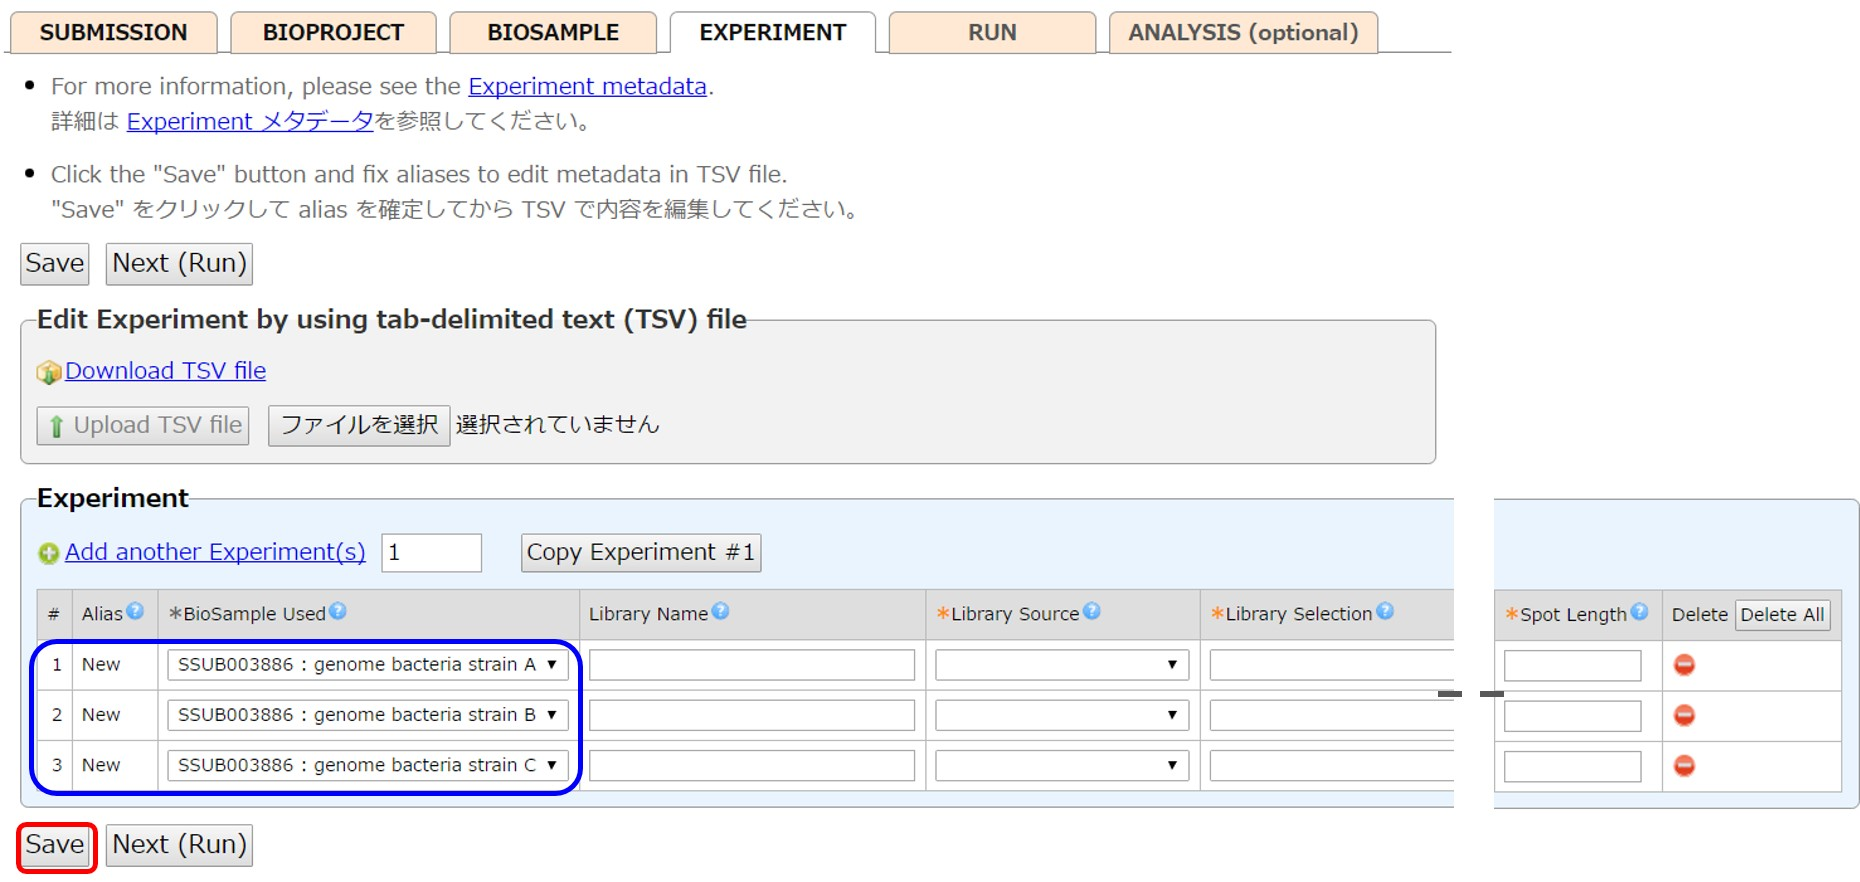
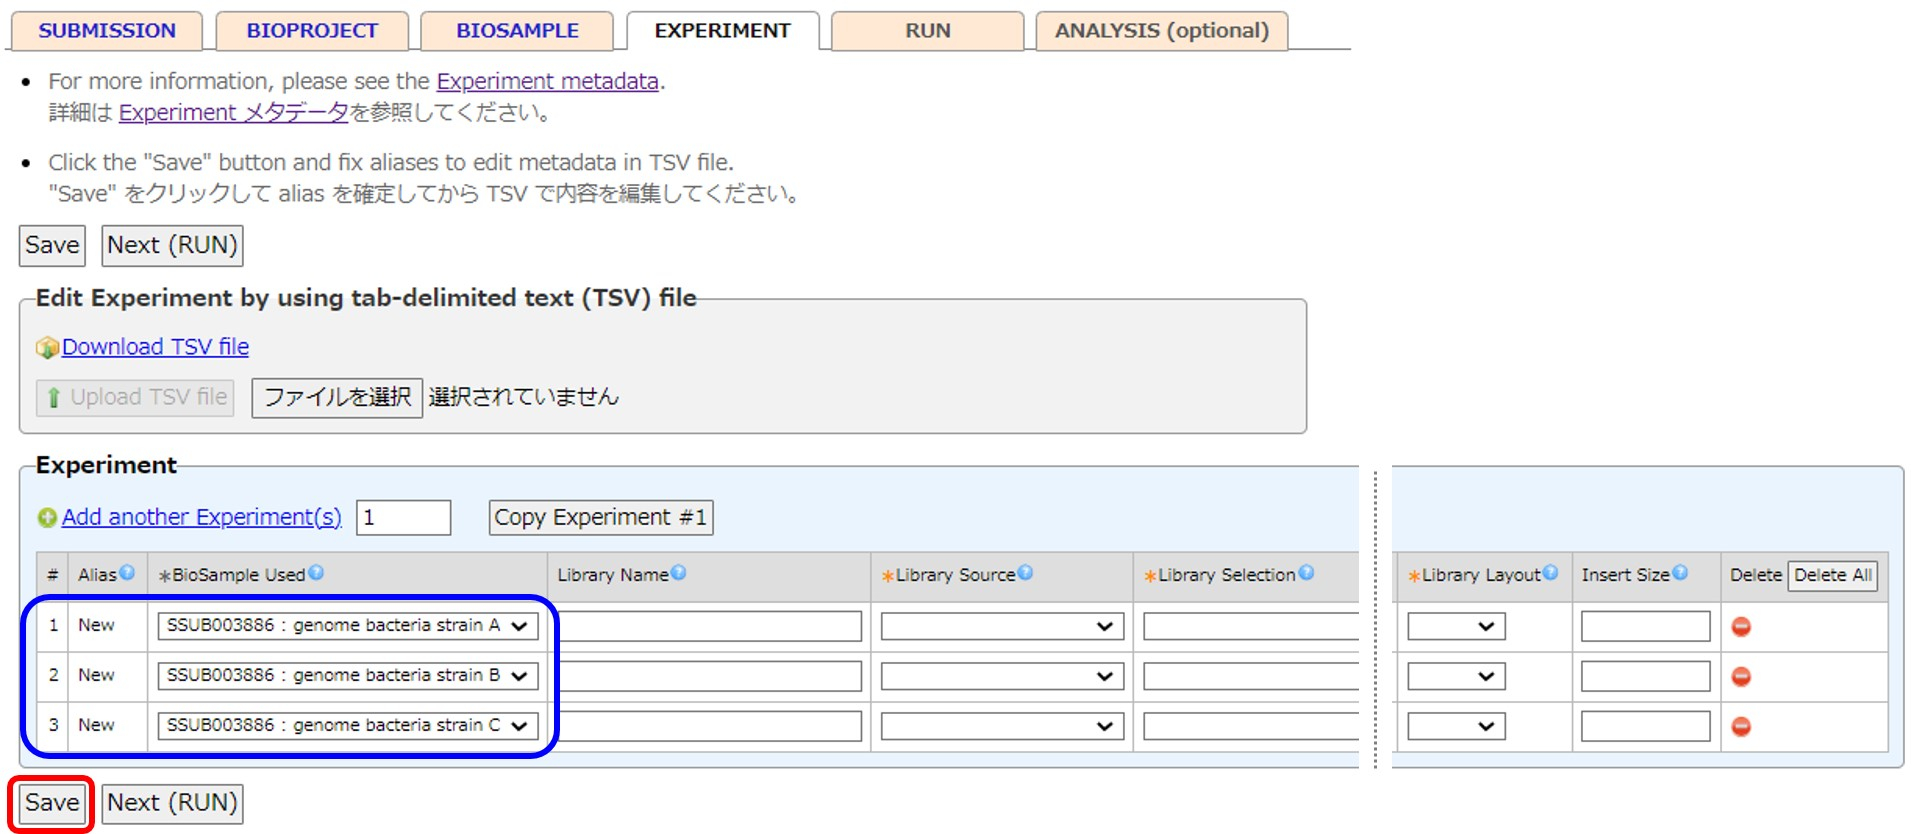
spot length 任意化に対応

diff --git a/_dra/submission.md b/_dra/submission.md
@@ -15,12 +15,9 @@ lang: ja
 
 ## 登録の流れ {#flow}
 
-登録方法の動画 [TogoTV](https://togotv.dbcls.jp/20190523.html) (22分12秒、2019年作成)。
-
 ### 1. 登録アカウントを取得 {#step-account}
 
-[D-way 登録アカウント](/account.html)を取得し、
-[公開鍵と center name をアカウントに登録](/account.html#enable-dra-submission-in-account)して DRA 登録ができるようにします。
+[D-way 登録アカウント](/account.html)を取得し、[公開鍵と center name をアカウントに登録](/account.html#enable-dra-submission-in-account)して DRA 登録ができるようにします。
 
 ### 2. DRA 新規登録の作成  {#step-new-submission}
 
@@ -159,8 +156,8 @@ BioProject の登録後、登録したプロジェクトが選択されます。
 
 アカウントで登録した BioSample から該当するものを選びます (DRA では数サンプルが一般的です)。
 チェックボックスを選択し、続いて Shift キーを押しながら次のボックスをクリックすると、サンプルが範囲選択されます。
-また、カラム上部のボックスにテキストを入力しフィルターされた全てのサンプルを [Select filtered BioSamples] で選択することができます。　　
-未登録の場合、[register sample(s)] から新たにサンプルを登録します。  
+また、カラム上部のボックスにテキストを入力しフィルターされた全てのサンプルを [Select filtered BioSamples] で選択することができます。
+未登録の場合、[register sample(s)] から新たにサンプルを登録します。    
 自身のアカウント以外で登録されたサンプルを参照したい場合は [DRA チームに連絡](/contact-ddbj.html)します。
 
 {% include image.html url="books/hdra-bs01.jpg" caption="BioSample の選択 or 新規登録" class="w500" %}
@@ -195,7 +192,8 @@ Experiment は [Add new Experiment(s)] で追加できます。
 
 エクセルなどの表計算ソフトでメタデータをまとめて作成します。
 
-"Title" は空の場合、自動的に "[Sequencing Instrument Model] [paired end] sequencing of [BioSample ID]" というタイトル（例 "Illumina HiSeq 2000 paired end sequencing of SAMD00025741"）が構築されます。独自の Title を付ける場合は "Title" 欄にタイトルを入力します。　
+"Title" は空の場合、自動的に "[Sequencing Instrument Model] [paired end] sequencing of [BioSample ID]" というタイトル（例 "Illumina HiSeq 2000 paired end sequencing of SAMD00025741"）が構築されます。
+内容を簡潔に表すタイトルを "Title" 欄に記載することを推奨します。   
 "BioSample Used" は番号発行済みのサンプルは SAMD アクセッション番号 (例 SAMD00000001) で、未発番のサンプルは "SSUB BioSample Submission ID" : "Sample name" (例 SSUB003746 : Genome bacteria strain A) で指定します。":" の両側の空白は無視されます。
 
 {% include image.html url="books/hdra-experiment03.jpg" caption="Experiment テンプレートファイル" class="w500" %}

diff --git a/_dra/metadata-e.md b/_dra/metadata-e.md
@@ -315,28 +315,19 @@ eCollection 2015. PMID:
 | AB 3730 Genetic Analyzer            |
 | AB 3730xL Genetic Analyzer          |
 
-[Spot Type](#Spot_Type)<a name="Spot_Type"></a><span class="red">*</span>  
-: Select a layout of reads in sequencing data files.
+[Library Layout](#Library_Layout)<a name="Library_Layout"></a><span class="red">*</span>  
+: Select a layout of reads in sequencing data files. 
+Directions of reads (Forward or Reverse) are automatically determined from the Instrument values. 
+In December 2022, the display name was changed from "Spot Type" to "Library Layout".
 
-| Spot Type   | Description                           |
+| Spot Type | Description |
 |---|
-| single      | Single read                           |
-| paired (FF) | Paired reads with same direction.     |
-| paired (FR) | Paired reads with opposite direction. |
+| single | Single read |
+| paired | Paired reads |
 
-[Nominal Length](#Nominal_Length)<a name="Nominal_Length"></a><span class="conditionally_required">*</span>  
-: Size of the insert for Paired reads.
-
-[Nominal Sdev](#Nominal_Sdev)<a name="Nominal_Sdev"></a>
-: Standard deviation of insert size.
-
-[Spot Length](#Spot_Length)<a name="Spot_Length"></a><span class="red">*</span>  
-: The read length in submitted sequencing files. For mate pairs, this
-number includes mate pairs, but does not include gap lengths.
-
-- When the spot length is constant, enter a constant value.
-- For 454 platforms producing reads with variable length, enter a constant flow count.
-- For fastq files with variable length, enter an average length.
+[Insert Size](#Insert_Size)<a name="Insert_Size"></a><span class="conditionally_required">*</span>  
+: Size of the insert for Paired reads. 
+In December 2022, the display name was changed from "Nominal Length" to "Insert Size".
 
 ## Run  {#Run} 
 
@@ -377,7 +368,6 @@ in tsv file, this field needs to be specified manually.
 | File Type        | Description                                                                                                            |
 |---|
 | fastq            | fastq file                                                                       |
-| sff              | 454 Standard Flowgram Format file                                                                                      |
 | hdf5             | PacBio hdf5 Format file                                                                                                |
 | bam              | Binary SAM format for use by loaders that combine alignment and sequencing data                                        |
 | tab              | A tab-delimited table maps "SN in SQ line of BAM header" and "reference fasta file"                                    |

diff --git a/_dra/datafile-e.md b/_dra/datafile-e.md
@@ -137,7 +137,7 @@ tools or future genome assembilies.
 
 The alignment data can be submitted in the BAM format. The bam files should be readable by [SAMtools](http://samtools.sourceforge.net/) and [picard](https://broadinstitute.github.io/picard/). The BAM files are nearly optimal in terms of compression and should be submitted uncompressed.
 
-#### 2. Specify reference by INSDC/RefSeq accession number  {#Specify_reference_by_INSDC/RefSeq_accession_number}
+#### 2. Specify reference by INSDC/RefSeq accession number {#Specify_reference_by_INSDC_RefSeq_accession_number}
 
 If references are found in [https://ftp.ncbi.nlm.nih.gov/sra/refseq/](https://ftp.ncbi.nlm.nih.gov/sra/refseq/), references can be specified by their accession.version number (for example, NC_000001.11). [Version number](/ddbj/flat-file-e.html#Version)is necessary. Accession numbers for references can be searched in [NCBI Assembly](https://www.ncbi.nlm.nih.gov/assembly/).
 
@@ -145,7 +145,7 @@ If references are found in [https://ftp.ncbi.nlm.nih.gov/sra/refseq/](https://ft
 
 If references are not found in [https://ftp.ncbi.nlm.nih.gov/sra/refseq/](https://ftp.ncbi.nlm.nih.gov/sra/refseq/), submit a reference file in multi-fasta format. Select "reference_fasta" in the [Run file type](/dra/submission-e.html#File_Type). The reference name in the bam header and reference sequence are linked by the name in bam header and fasta defline via the mapping table. If sequence length is different between @SQ-LN and multi-fasta, a warning is raised.
 
-#### 4. Specify reference by both INSDC/RefSeq accession number and multi-fasta  {#Specify_reference_by_both_INSDC/RefSeq_accession_number_and_multi-fasta}
+#### 4. Specify reference by both INSDC/RefSeq accession number and multi-fasta  {#Specify_reference_by_both_INSDC_RefSeq_accession_number_and_multi-fasta}
 
 If a part of references are found in [https://ftp.ncbi.nlm.nih.gov/sra/refseq/](https://ftp.ncbi.nlm.nih.gov/sra/refseq/), these references can be specified by their accession.version number (for example, NC_000001.11). The rest of references needs to be supplied by uploading a multi-fasta file. In the SN-reference mapping table, list accession.version numbers and sequence names of multi-fasta deflines.
 

diff --git a/_dra/submission-e.md b/_dra/submission-e.md
@@ -211,7 +211,7 @@ Metadata can be editted in spreadsheet software (e.g. Excel).
 If "Title" values are empty, titles are automatically constructed as
 "[Sequencing Instrument Model] [paired end] sequencing of
 [BioSample ID]" (e.g., "Illumina HiSeq 2000 paired end sequencing of
-SAMD00025741"). Submitters can provide user-defined text in the "Title".
+SAMD00025741"). It is recommended to provide user-defined text in the "Title".
 
 Reference samples in "BioSample Used" by SAMD accessions (example, SAMD00000001) or "SSUB BioSample Submission ID"
 : "Sample name" (example, SSUB003746 : Genome bacteria strain A). Spaces
